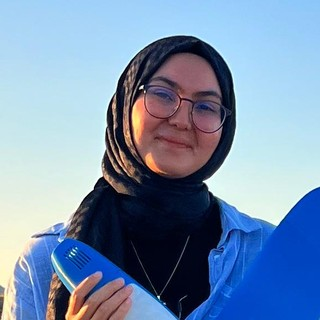
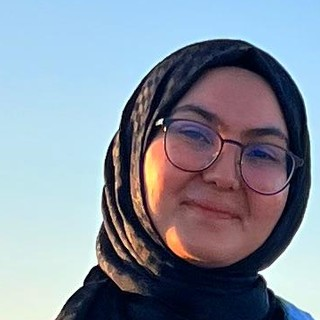
Remove empty sponsor slots, recrop Betul's photo to exclude her hand
- Dropped the 3 placeholder 'YOUR LOGO HERE' boxes from the sponsor row on
  the homepage and sponsors page (EN + TR) — only real sponsors remain
- Removed the now-unused sponsor-gold/silver/bronze.svg files
- Betul Soyer's roster photo recropped to head-and-shoulders only, no hand

diff --git a/tr/index.html b/tr/index.html
@@ -190,9 +190,6 @@
         <img src="../assets/img/unnamed.jpg" width="320" height="140" alt="TÜBİTAK — proje destekçisi">
         <img src="../assets/img/giv-vakfi.png" width="320" height="140" alt="Girişimci İşadamları Vakfı Konya — proje destekçisi">
         <img src="../assets/img/kapsul-x.png" width="320" height="140" alt="Kapsül Teknoloji Platformu — proje destekçisi">
-        <img src="../assets/img/sponsor-gold.svg" width="320" height="140" alt="Boş sponsor alanı">
-        <img src="../assets/img/sponsor-silver.svg" width="320" height="140" alt="Boş sponsor alanı">
-        <img src="../assets/img/sponsor-bronze.svg" width="320" height="140" alt="Boş sponsor alanı">
       </div>
       <p style="margin-top:1.4rem"><a class="btn btn-primary" href="sponsors.html">Sponsor ol</a></p>
     </div>

diff --git a/index.html b/index.html
@@ -191,9 +191,6 @@
         <img src="assets/img/unnamed.jpg" width="320" height="140" alt="TÜBİTAK — project supporter">
         <img src="assets/img/giv-vakfi.png" width="320" height="140" alt="Girişimci İşadamları Vakfı Konya — project supporter">
         <img src="assets/img/kapsul-x.png" width="320" height="140" alt="Kapsül Teknoloji Platformu — project supporter">
-        <img src="assets/img/sponsor-gold.svg" width="320" height="140" alt="Open sponsor slot">
-        <img src="assets/img/sponsor-silver.svg" width="320" height="140" alt="Open sponsor slot">
-        <img src="assets/img/sponsor-bronze.svg" width="320" height="140" alt="Open sponsor slot">
       </div>
       <p style="margin-top:1.4rem"><a class="btn btn-primary" href="sponsors.html">Become a sponsor</a></p>
     </div>

diff --git a/tr/sponsors.html b/tr/sponsors.html
@@ -67,9 +67,6 @@
         <img src="../assets/img/unnamed.jpg" width="320" height="140" alt="TÜBİTAK — proje destekçisi">
         <img src="../assets/img/giv-vakfi.png" width="320" height="140" alt="Girişimci İşadamları Vakfı Konya — proje destekçisi">
         <img src="../assets/img/kapsul-x.png" width="320" height="140" alt="Kapsül Teknoloji Platformu — proje destekçisi">
-        <img src="../assets/img/sponsor-gold.svg" width="320" height="140" alt="Boş sponsor alanı">
-        <img src="../assets/img/sponsor-silver.svg" width="320" height="140" alt="Boş sponsor alanı">
-        <img src="../assets/img/sponsor-bronze.svg" width="320" height="140" alt="Boş sponsor alanı">
       </div>
     </div>
   </section>

diff --git a/sponsors.html b/sponsors.html
@@ -67,9 +67,6 @@
         <img src="assets/img/unnamed.jpg" width="320" height="140" alt="TÜBİTAK — project supporter">
         <img src="assets/img/giv-vakfi.png" width="320" height="140" alt="Girişimci İşadamları Vakfı Konya — project supporter">
         <img src="assets/img/kapsul-x.png" width="320" height="140" alt="Kapsül Teknoloji Platformu — project supporter">
-        <img src="assets/img/sponsor-gold.svg" width="320" height="140" alt="Open sponsor slot">
-        <img src="assets/img/sponsor-silver.svg" width="320" height="140" alt="Open sponsor slot">
-        <img src="assets/img/sponsor-bronze.svg" width="320" height="140" alt="Open sponsor slot">
       </div>
     </div>
   </section>
